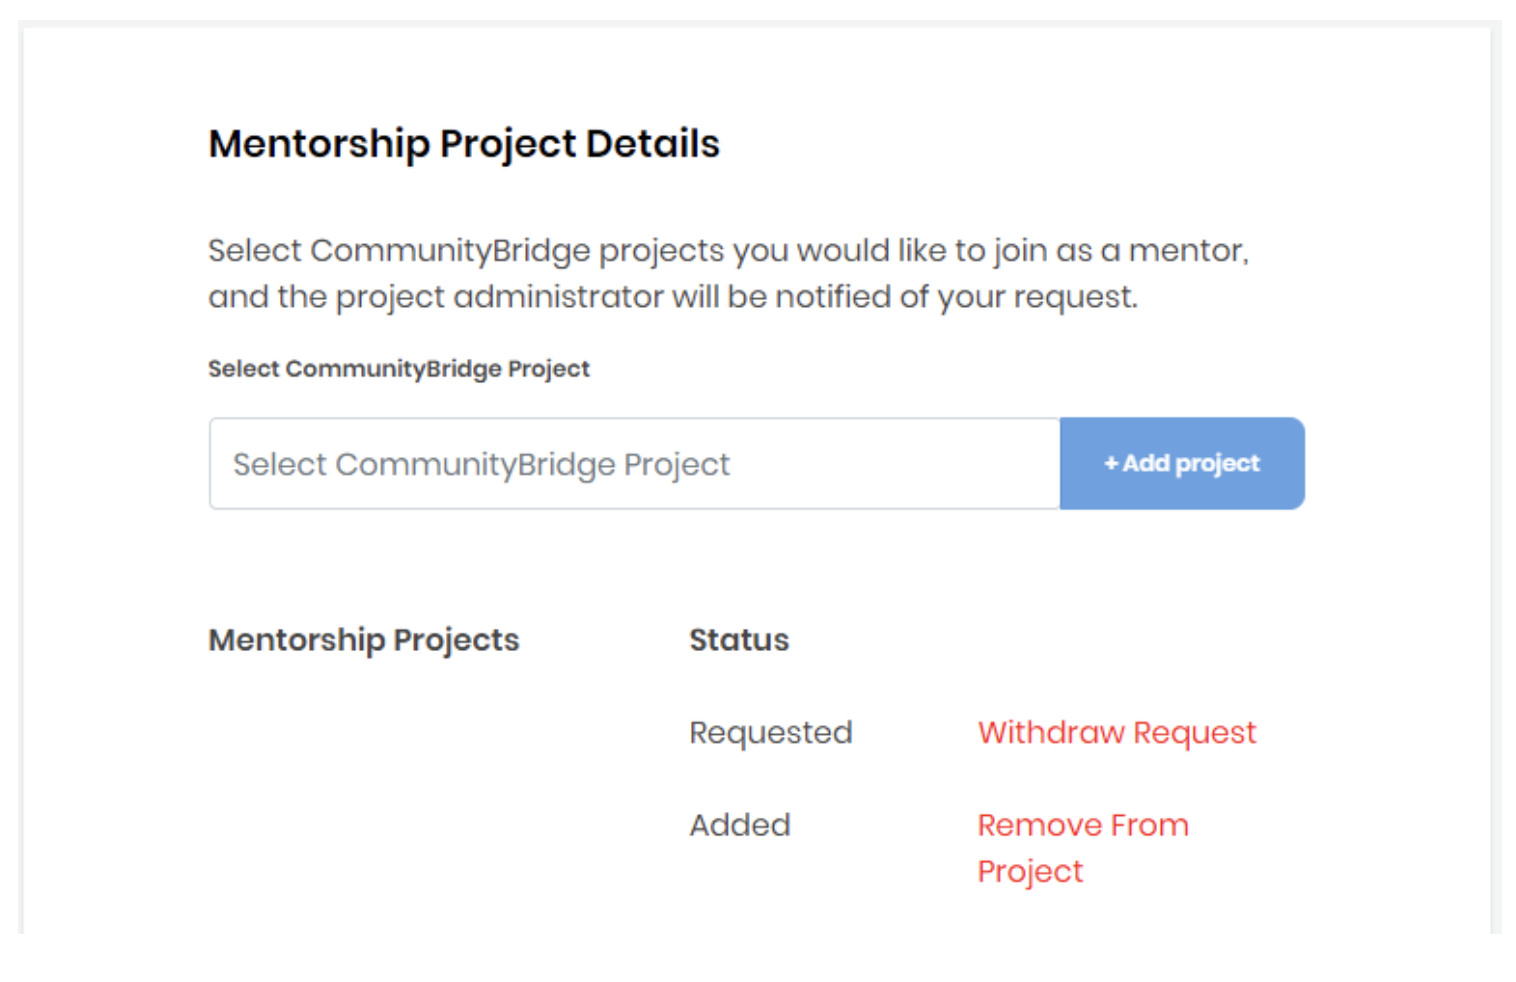
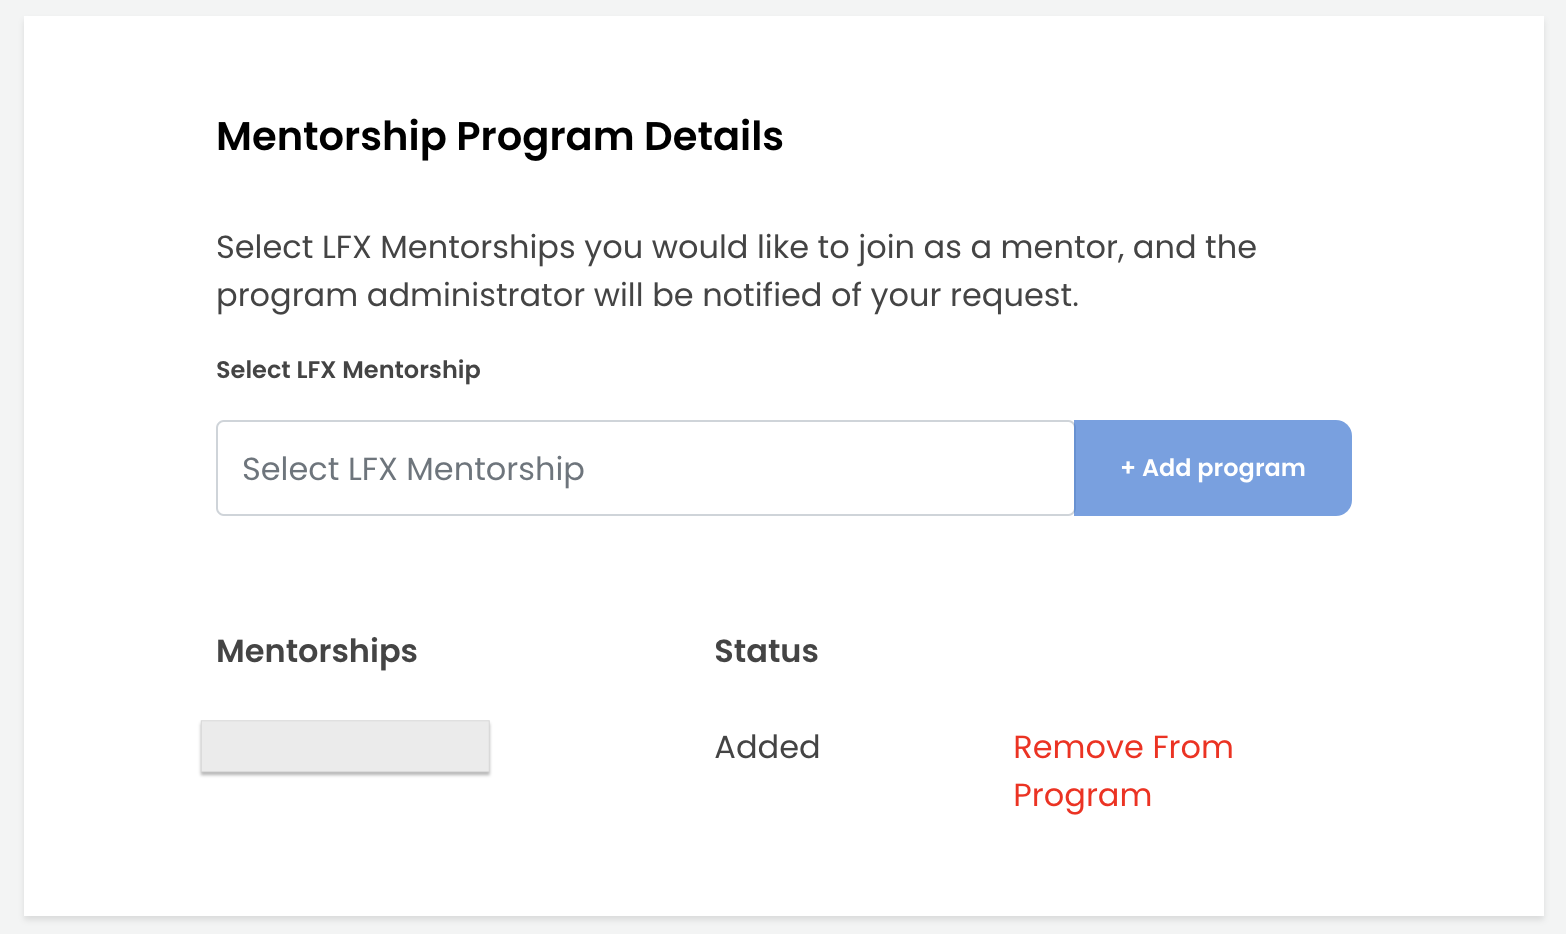
GitBook: [master] 243 pages and 2 assets modified

diff --git a/mentorship/mentees/README.md b/mentorship/mentees/README.md
@@ -11,11 +11,12 @@ The following eligibility rules apply to all mentee applicants.
 
 * Be at least 18 years old by the time the mentorship program starts.
 * Not be a prior or an active participant in another Linux Foundation mentorship program.
-* Be eligible to work in the country and jurisdiction where you will be participating in the Mentorship program.
-* Not reside in a country or jurisdiction where participation in the mentorship is prohibited under applicable U.S. federal, state or local laws or the laws of other countries
-* Seeking to participate on your own behalf as an individual
-* Not be subject to any existing obligations to third parties \(such as contractual obligations to an employer\) that would restrict or prohibit your participation in a mentorship program.
-* Meet all criteria set by the program to which a mentees is applying, i.e. any custom prerequisites and requirements.
+* Apply to maximum three \(3\) mentorship programs in one term. The programs from which a mentee withdraws during the applications period don't count towards this limit.  
+* Be eligible to work in the country and jurisdiction where you will be participating in the mentorship program.
+* Not reside in a country or jurisdiction where participation in the mentorship is prohibited under applicable U.S. federal, state or local laws or the laws of other countries.
+* Apply to participate on one's own behalf as an individual.
+* Not be subject to any existing obligations to third parties \(such as contractual obligations to an employer\) that would restrict or prohibit participation in a mentorship program.
+* Meet all criteria set by the program to which a mentee is applying, i.e. all prerequisites and requirements.
 * Not be a maintainer, recurring contributor, etc.. with more than minimal involvement with the open source project that offers a mentorship program.
 {% endhint %}
 

diff --git a/mentorship/mentors/create-a-mentor-profile/admin-invites-a-mentor-to-a-program.md b/mentorship/mentors/create-a-mentor-profile/admin-invites-a-mentor-to-a-program.md
@@ -1,14 +1,14 @@
 # Admin Invites a Mentor to a Program
 
-Program admin can invite a mentor to volunteer for a mentorship program by adding her as a mentor. When admin ads a mentor, the mentor receives an email notification letting her know that she's been added and asking her to [create a mentor](../../mentees/create-a-mentee-profile.md) profile if she doesn't have one.
+Program admin can invite a mentor to volunteer for a mentorship program by adding her as a mentor. When admin adds a mentor, the mentor receives an email notification from LF Engineering letting her know that she's been added and asking her to [create a mentor](../../mentees/create-a-mentee-profile.md) profile if she doesn't have one.
 
-If a mentor already has a profile on LFX Mentorship there is no action required, unless she want to remove herself from the program. Below is a screenshot of the email that mentor receives after being added by the program admin.
+If a mentor already has a profile on LFX Mentorship there is no action required, unless she wants to remove herself from the program. Below is a screenshot of the email that mentor receives after being added by the program admin.
 
 
 
 ![](../../../.gitbook/assets/mentor-invite-email.png)
 
-A mentor can remove herself from a program by navigating to her profile and selecting **Remove from Program** CTA next to the program name she wants to be removed from.
+A mentor can remove herself from a program by navigating to her profile and selecting **Remove From Program** CTA next to the program name she wants to be removed from.
 
-![](../../../.gitbook/assets/remove-from-program%20%281%29.png)
+![](../../../.gitbook/assets/remove-from-program.png)
 

diff --git a/mentorship/mentors/create-a-mentor-profile/request-to-be-added-to-a-program.md b/mentorship/mentors/create-a-mentor-profile/request-to-be-added-to-a-program.md
@@ -6,7 +6,7 @@
 
 3. After the project maintainer adds you to the program, you will get an email notification and the "Requested" status will change to **Added**.
 
-4. You can remove yourself from the program by selecting **Remove from Program** CTA.
+4. You can remove yourself from the program by selecting **Remove From Program** CTA.
 
-![](../../../.gitbook/assets/remove-from-program%20%281%29.png)
+![](../../../.gitbook/assets/remove-from-program.png)
 
